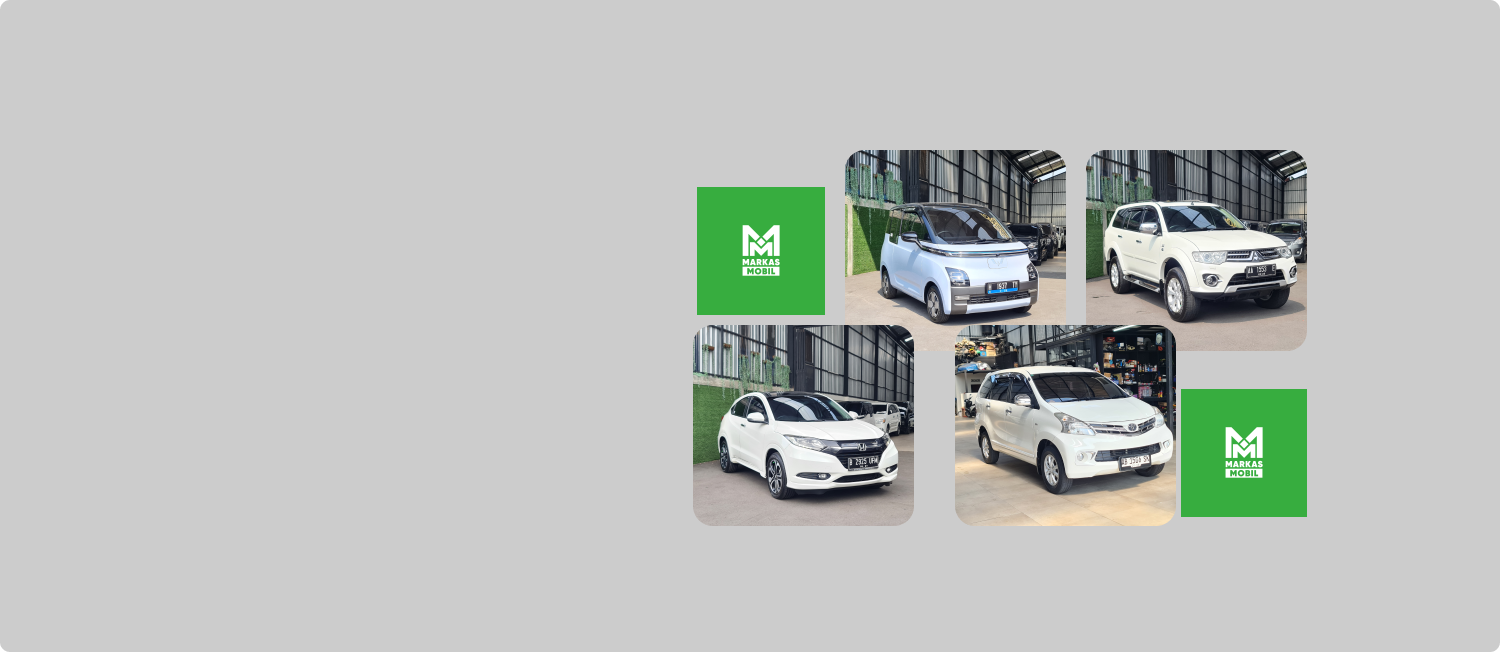
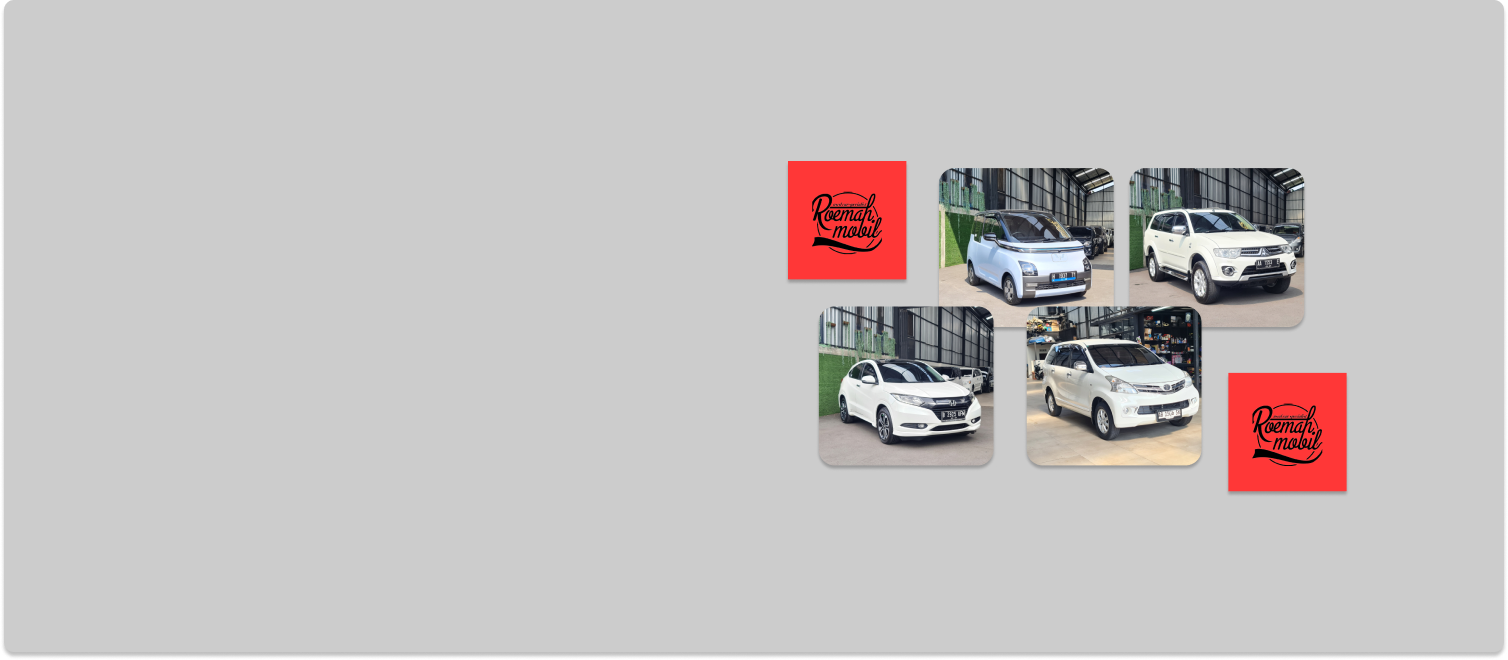
lagi-aa

Changed region(s): [[0.46, 0.2147, 0.92, 0.8282], [0.0, 0.0, 1.0, 1.0]]

diff --git a/assets/css/style.css b/assets/css/style.css
@@ -971,7 +971,7 @@ body {
 
 
 /**
- * responsive for larger than 768px screen
+ *  for larger than 768px screen
  */
 
 @media (min-width: 768px) {
@@ -979,6 +979,8 @@ body {
   /**
    * CUSTOM PROPERTY
    */
+
+ 
 
   :root {
 
@@ -1337,4 +1339,61 @@ body {
 
   .offer .container { gap: 120px; }
 
+}
+
+/* info */
+
+/*-----------------------------------*\
+  #INFO
+\*-----------------------------------*/
+
+.info {
+  background-color: var(--light-gray); /* Ganti dengan warna abu-abu yang diinginkan */
+  padding: 50px 15px; /* Spasi di atas dan bawah */
+}
+
+.info-content {
+  display: flex;
+  justify-content: space-between;
+  align-items: center;
+  gap: 30px; /* Jarak antara teks dan gambar */
+}
+
+.text-section {
+  flex: 1; /* Membuat teks mengambil ruang yang tersedia */
+}
+
+.info-title {
+  font-size: var(--fs-3);
+  font-weight: var(--fw-600);
+  margin-bottom: 16px;
+}
+
+.info-description {
+  font-size: var(--fs-6);
+  color: var(--gray-web);
+}
+
+.image-section {
+  flex: 1; /* Membuat gambar mengambil ruang yang tersedia */
+}
+
+.info-image {
+  width: 100%; /* Gambar responsif */
+  height: auto; /* Memastikan proporsi gambar tetap */
+}
+
+/* Responsif untuk perangkat lebih besar dari 768px */
+@media (min-width: 768px) {
+  .info-content {
+      gap: 50px; /* Jarak lebih besar di perangkat yang lebih besar */
+  }
+
+  .info-title {
+      font-size: var(--fs-2); /* Ukuran font lebih besar untuk judul */
+  }
+
+  .info-description {
+      font-size: var(--fs-5); /* Ukuran font lebih besar untuk deskripsi */
+  }
 }

diff --git a/index.html b/index.html
@@ -150,7 +150,7 @@
           <ul class="has-scrollbar">
 
             <li class="scrollbar-item">
-              <div class="hero-card has-bg-image" style="background-image: url(./assets/images/roemah\ banner.png  )">
+              <div class="hero-card has-bg-image" style="background-image: url(./assets/images/Twitter\ header\ -\ 1.png )">
 
                 <div class="card-content">
 
@@ -225,7 +225,7 @@
                 </a>
 
                 <div class="has-bg-image">
-                  <img src="./assets/images/omah logo.png" width="400px" alt="">
+                  <img src="./assets/images/omah.png" width="400px" alt="">
                 </div>
 
               </div>
